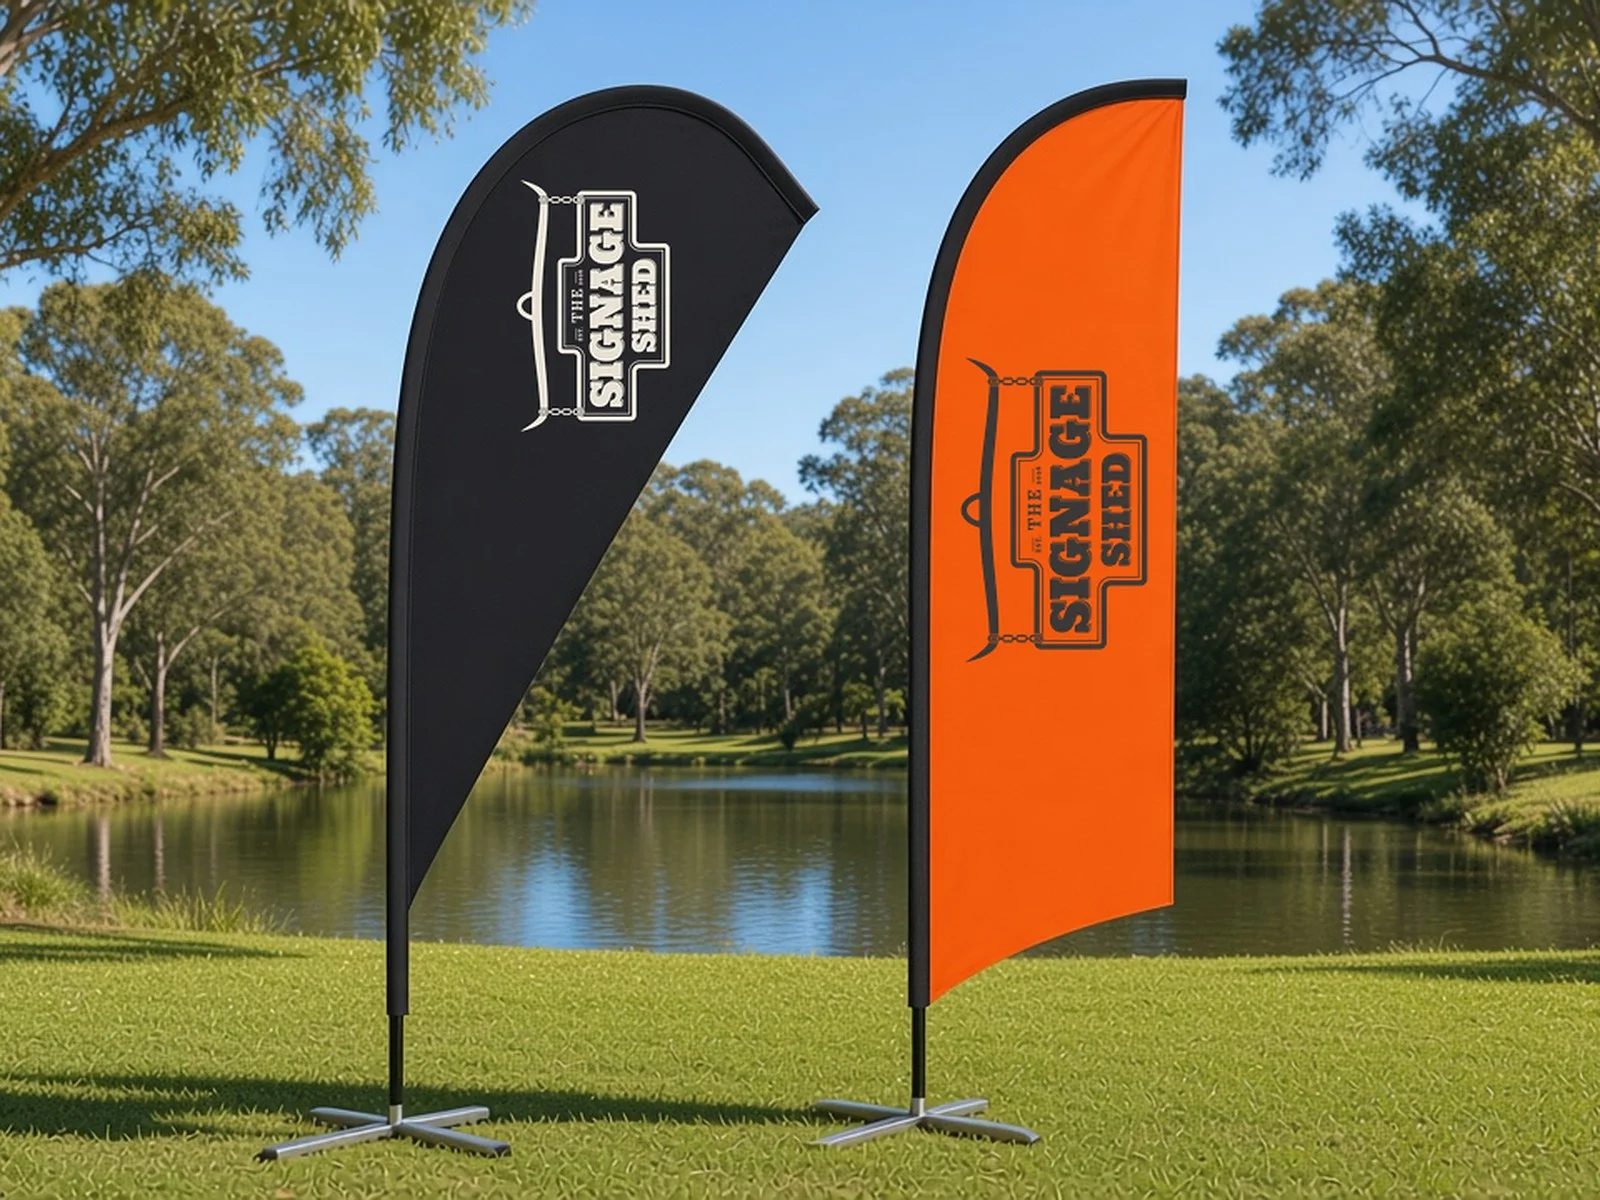
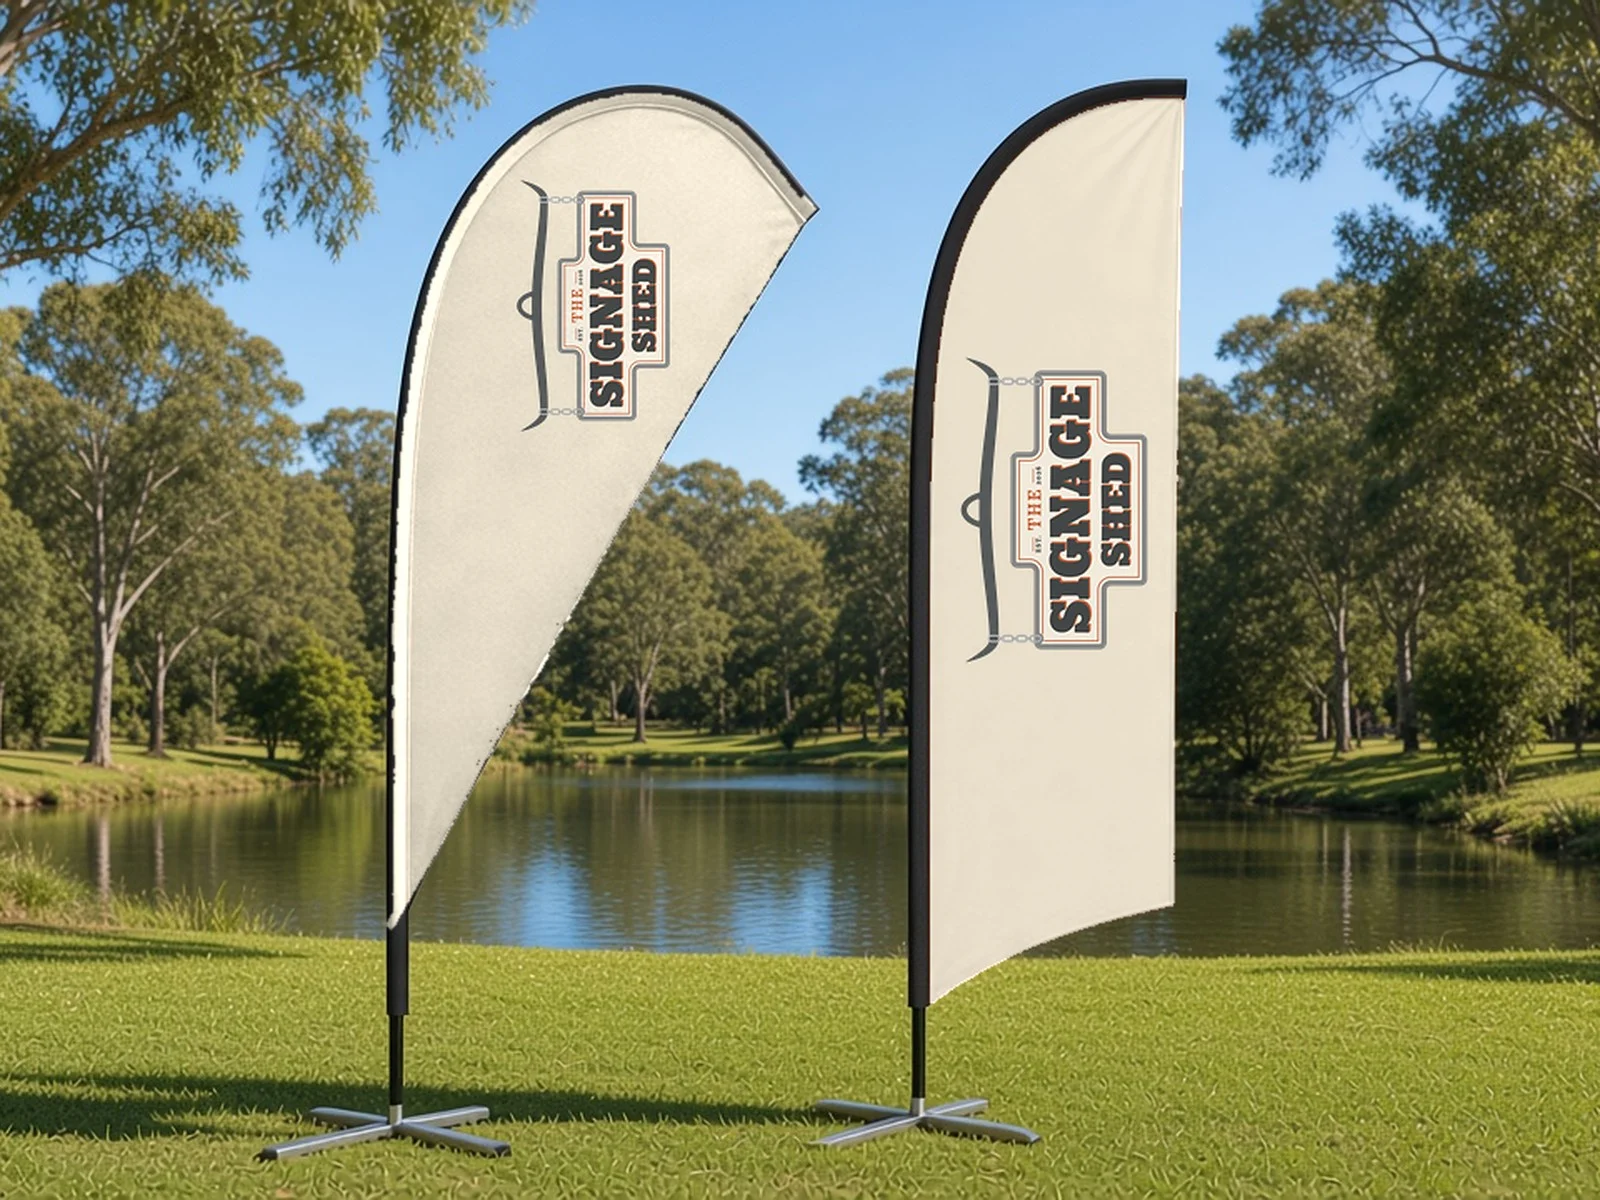
Recolour flag mockup to cream to match other products

Changed region(s): [[0.5625, 0.0617, 0.75, 0.8325], [0.2188, 0.0617, 0.5312, 0.7708]]

diff --git a/src/data/mockups.ts b/src/data/mockups.ts
@@ -81,7 +81,7 @@ export const MOCKUPS = {
   flags: {
     slug: "flags",
     title: "Teardrop and feather flags",
-    alt: "A charcoal teardrop flag and an orange feather flag printed with The Signage Shed logo running up each flag, beside a lake with gum trees",
+    alt: "A cream teardrop flag and a cream feather flag printed with The Signage Shed logo running up each flag, beside a lake with gum trees",
   },
   umbrella: {
     slug: "umbrella",
